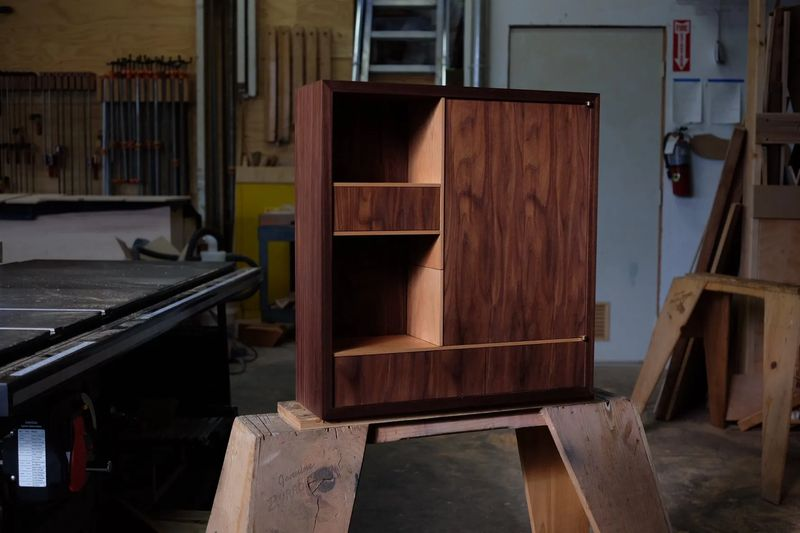
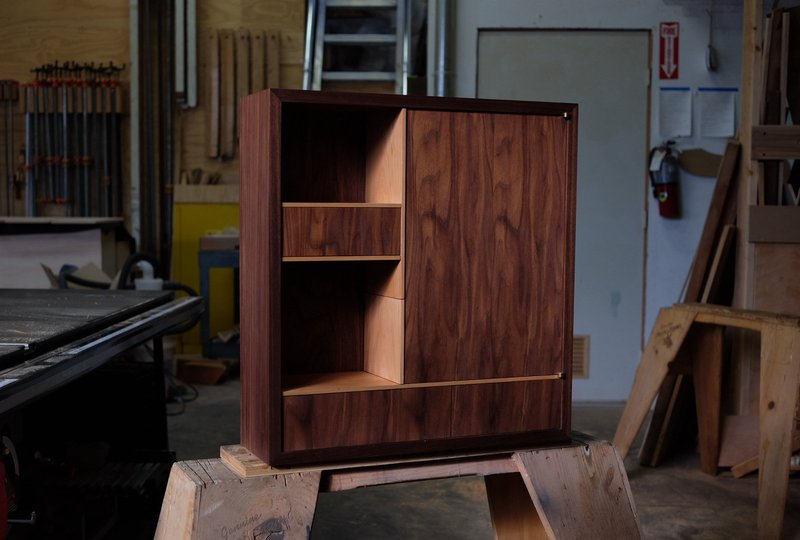
Crop design hero image to top-right portion for better framing

diff --git a/src/design/index.html b/src/design/index.html
@@ -24,7 +24,7 @@
   <link rel="preconnect" href="https://fonts.gstatic.com" crossorigin>
   <link rel="preload" as="style" href="https://fonts.googleapis.com/css2?family=Crimson+Pro:ital,wght@0,300;0,400;0,500;0,600;1,300;1,400;1,500&display=swap" onload="this.onload=null;this.rel='stylesheet'">
   <noscript><link href="https://fonts.googleapis.com/css2?family=Crimson+Pro:ital,wght@0,300;0,400;0,500;0,600;1,300;1,400;1,500&display=swap" rel="stylesheet"></noscript>
-  <link rel="preload" as="image" href="/images/gallery/cabinet-intro-800w.webp" type="image/webp" imagesrcset="/images/gallery/cabinet-intro-400w.webp 400w, /images/gallery/cabinet-intro-800w.webp 800w, /images/gallery/cabinet-intro.webp 1776w" imagesizes="100vw" fetchpriority="high">
+  <link rel="preload" as="image" href="/images/gallery/cabinet-intro-800w.webp" type="image/webp" imagesrcset="/images/gallery/cabinet-intro-400w.webp 400w, /images/gallery/cabinet-intro-800w.webp 800w, /images/gallery/cabinet-intro.webp 1599w" imagesizes="100vw" fetchpriority="high">
   <link rel="stylesheet" href="/css/styles.min.css">
   <link rel="stylesheet" href="/css/pages.css">
 
@@ -83,8 +83,8 @@
     <!-- Hero with text overlay -->
     <section class="design-hero">
       <picture>
-        <source srcset="/images/gallery/cabinet-intro-400w.webp 400w, /images/gallery/cabinet-intro-800w.webp 800w, /images/gallery/cabinet-intro.webp 1776w" sizes="100vw" type="image/webp">
-        <img src="/images/gallery/cabinet-intro.jpeg" alt="Custom walnut cabinet showcasing the craftsmanship of Flatow Furniture in San Francisco" class="design-hero-image" srcset="/images/gallery/cabinet-intro-400w.jpeg 400w, /images/gallery/cabinet-intro-800w.jpeg 800w, /images/gallery/cabinet-intro.jpeg 1776w" sizes="100vw" width="1776" height="1184" fetchpriority="high">
+        <source srcset="/images/gallery/cabinet-intro-400w.webp 400w, /images/gallery/cabinet-intro-800w.webp 800w, /images/gallery/cabinet-intro.webp 1599w" sizes="100vw" type="image/webp">
+        <img src="/images/gallery/cabinet-intro.jpeg" alt="Custom walnut cabinet showcasing the craftsmanship of Flatow Furniture in San Francisco" class="design-hero-image" srcset="/images/gallery/cabinet-intro-400w.jpeg 400w, /images/gallery/cabinet-intro-800w.jpeg 800w, /images/gallery/cabinet-intro.jpeg 1599w" sizes="100vw" width="1599" height="1081" fetchpriority="high">
       </picture>
     </section>
 
